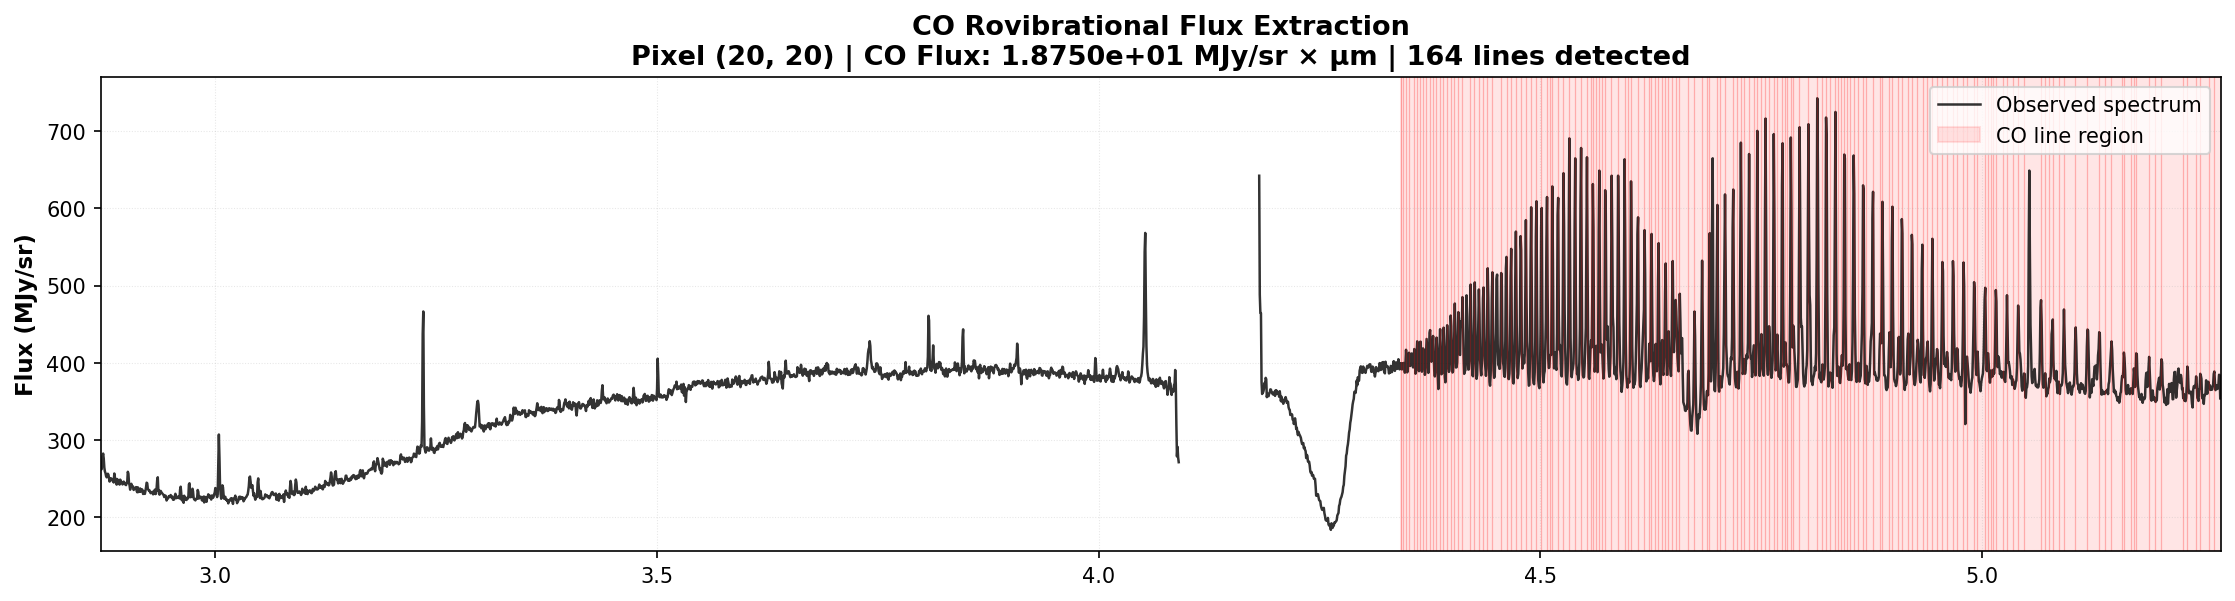
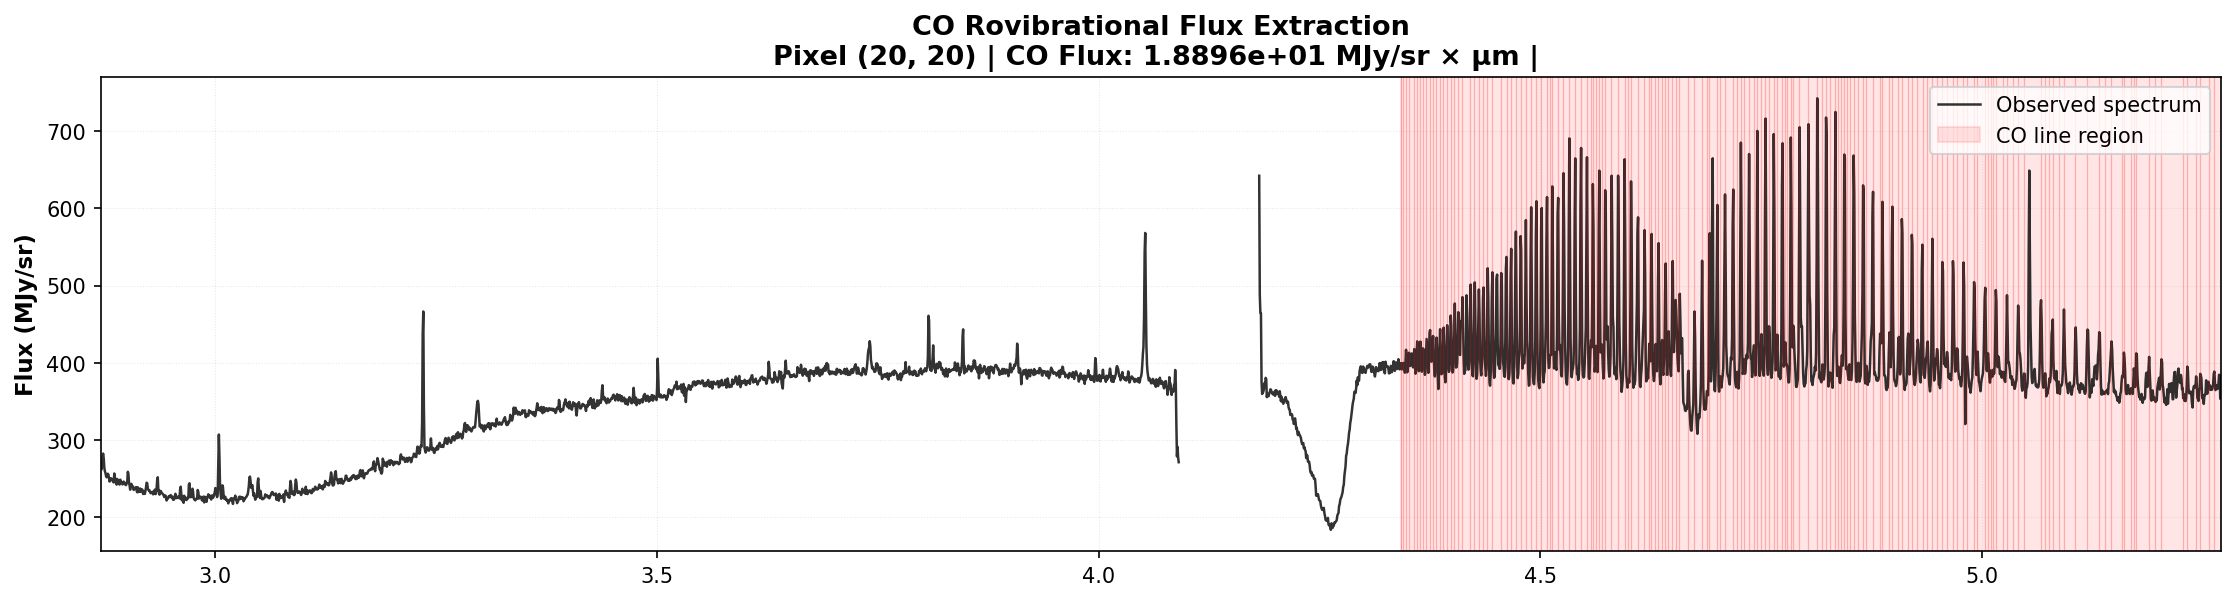
commit before next week

Changed region(s): [[0.2779, 0.0599, 0.7718, 0.1198]]

diff --git a/test_single_spectrum.py b/test_single_spectrum.py
@@ -59,11 +59,11 @@ print("\n" + "="*60)
 print("RESULTS:")
 print("="*60)
 print(f"CO Flux: {result['co_flux']:.6e} {flux_unit}")
-print(f"Contaminent Flux: {result['contam_flux']:.6e} {flux_unit}")
-print(f"Mean Continuum: {result['mean_continuum']:.6e} {bunit}")
-print(f"Detected lines: {len(result['detected_lines'])}")
-n_co = len(result['detected_lines'][result['detected_lines']['disposition'] == 1])
-print(f"Detected CO lines (disposition=1): {n_co}")
+#print(f"Contaminent Flux: {result['contam_flux']:.6e} {flux_unit}")
+#print(f"Mean Continuum: {result['mean_continuum']:.6e} {bunit}")
+#print(f"Detected lines: {len(result['detected_lines'])}")
+#n_co = len(result['detected_lines'][result['detected_lines']['disposition'] == 1])
+#print(f"Detected CO lines (disposition=1): {n_co}")
 #residuals = result['residuals']['residual'].values
 #print(f"Residuals std: {np.std(residuals):.4e}")
 #print(f"Residuals mean: {np.mean(residuals):.4e}")
@@ -100,8 +100,8 @@ if use_plot:
     ax1.set_ylabel(f'Flux ({bunit})', fontsize=11, fontweight='bold')
     ax1.set_title(
         f'CO Rovibrational Flux Extraction\nPixel ({pixel_x}, {pixel_y}) | '
-        f'CO Flux: {result["co_flux"]:.4e} {flux_unit} | '
-        f'{n_co} lines detected',
+        f'CO Flux: {result["co_flux"]:.4e} {flux_unit} | ',
+        #f'{n_co} lines detected',
         fontsize=13, fontweight='bold'
     )
     ax1.legend(loc='upper right', fontsize=10)
